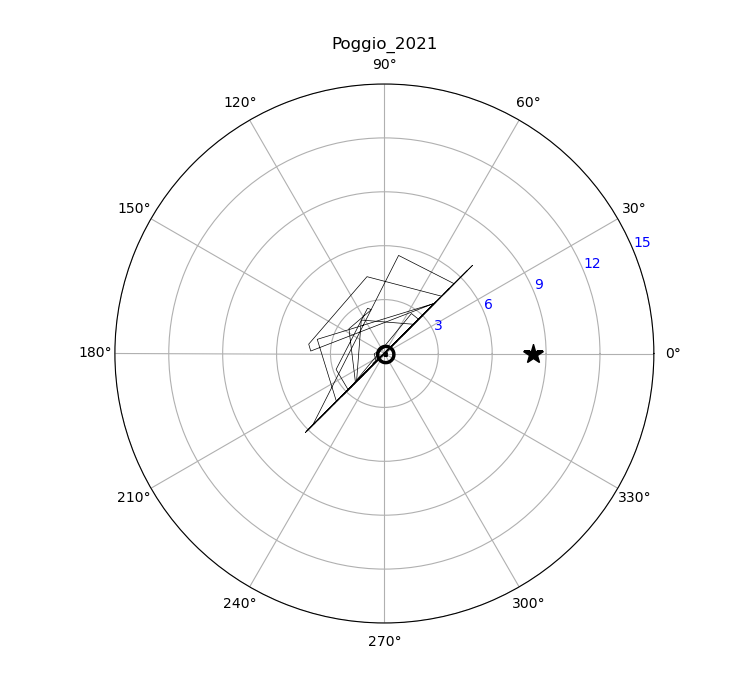
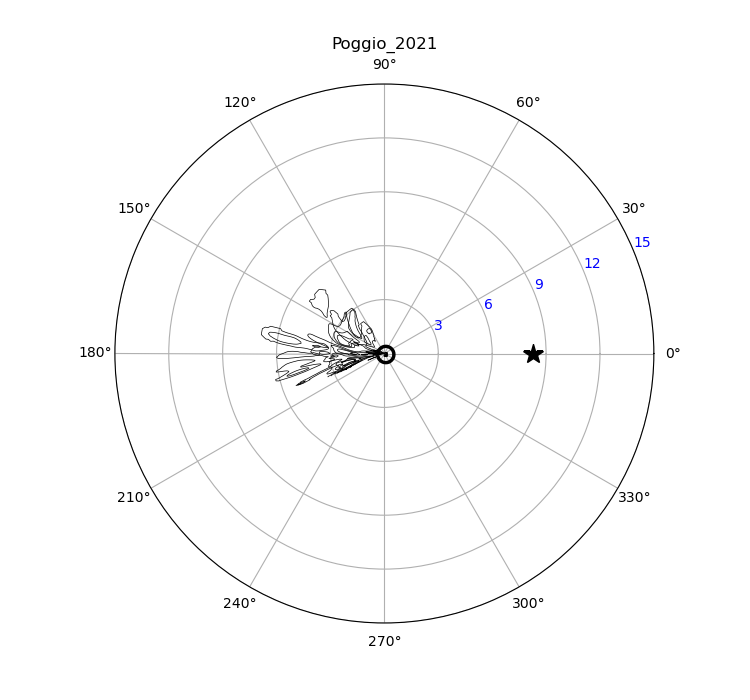
fixing polarproj poggio hc

Changed region(s): [[0.368, 0.42, 0.5827, 0.6], [0.5827, 0.39, 0.6133, 0.42], [0.4907, 0.39, 0.5213, 0.42]]

diff --git a/SpiralMap.py b/SpiralMap.py
@@ -72,24 +72,24 @@ class spiral_poggio(object):
 	
 	
 		self.dout = {'xhc':xvalues_overdens,'yhc':yvalues_overdens,'xgc':xvalues_overdens+xsun,'ygc':yvalues_overdens}
-		getangular(self)
+		# getangular(self)
 
 		#----overplot spiral arms in overdens----#
 		iniz_overdens= 0  
 		fin_overdens= 1.5 
 		N_levels_overdens= 2
-		levels_overdens= np.linspace(iniz_overdens,fin_overdens,N_levels_overdens)		
+		levels_overdens1= np.linspace(iniz_overdens,fin_overdens,N_levels_overdens)		
 		
 		if plotattrs['polarproj'] == False:			
 			cset1 = plt.contourf(self.dout['x'+plotattrs['coordsys'].lower()],self.dout['y'+plotattrs['coordsys'].lower()],over_dens_grid.T, 
-								levels=levels_overdens,alpha=0.05,cmap='Greys')	
+								levels=levels_overdens1,alpha=0.05,cmap='Greys')	
 							
 		iniz_overdens= 0. 
 		fin_overdens= 1.5 
 		N_levels_overdens= 4 
-		levels_overdens= np.linspace(iniz_overdens,fin_overdens,N_levels_overdens)
+		levels_overdens2= np.linspace(iniz_overdens,fin_overdens,N_levels_overdens)
 		if plotattrs['polarproj'] == False:				
-			cset1 = plt.contour(self.dout['x'+plotattrs['coordsys'].lower()],self.dout['y'+plotattrs['coordsys'].lower()],over_dens_grid.T,levels=levels_overdens,colors='black',linewidths=plotattrs['linewidth'])
+			cset1 = plt.contour(self.dout['x'+plotattrs['coordsys'].lower()],self.dout['y'+plotattrs['coordsys'].lower()],over_dens_grid.T,levels=levels_overdens2,colors='black',linewidths=plotattrs['linewidth'])
 
 			self.xmin,self.xmax =plt.gca().get_xlim()[0].copy(),plt.gca().get_xlim()[1].copy()				
 			self.ymin,self.ymax =plt.gca().get_ylim()[0].copy(),plt.gca().get_ylim()[1].copy()		
@@ -108,16 +108,18 @@ class spiral_poggio(object):
 			plt.plot(np.radians(180.),abs(xsun),marker=r'$\odot$',markersize=plotattrs['markersize'],color='black')		
 
 			cset1 = plt.contourf(np.radians(self.dout['phi4']),self.dout['rgc'],over_dens_grid, 
-								levels=levels_overdens,alpha=0.05,cmap='Greys')
-			cset1 = plt.contour(np.radians(self.dout['phi4']),self.dout['rgc'],over_dens_grid,'.',levels=levels_overdens,colors='black',linewidths=plotattrs['linewidth'])	
+								levels=levels_overdens1,alpha=0.05,cmap='Greys')
+			cset1 = plt.contour(np.radians(self.dout['phi4']),self.dout['rgc'],over_dens_grid,levels=levels_overdens2,colors='black',linewidths=plotattrs['linewidth'])	
 			
-		print(self.dout['dhelio'])
-		print(Rvalues_dens)
+		self.dout['glon4'] = np.degrees(np.arctan2(self.dout['yhc'],self.dout['xhc']))%360.	
+					
+		print(self.dout['glon4'])
+
 		if plotattrs['plot'] and plotattrs['polarproj'] and plotattrs['coordsys'].lower()=='hc':
 			plt.plot(np.radians(0.),abs(xsun),marker='*',markersize=plotattrs['markersize'],color='black')
 			plt.plot(0.,0.,marker=r'$\odot$',markersize=plotattrs['markersize'],color='black')															
-			# plt.contour(np.radians(self.dout['glon4']),self.dout['dhelio'],over_dens_grid,'.',levels=levels_overdens,colors='black',linewidths=plotattrs['linewidth'])	
-			plt.contour(np.radians(self.dout['glon4']),self.dout['dhelio'],over_dens_grid,'.',levels=levels_overdens,colors='black',linewidths=plotattrs['linewidth'])	
+			plt.contour(np.radians(self.dout['glon4']),Rvalues_dens,over_dens_grid,levels=levels_overdens1,alpha=0.05,cmap='Greys')	
+			plt.contour(np.radians(self.dout['glon4']),Rvalues_dens,over_dens_grid,levels=levels_overdens2,colors='black',linewidths=plotattrs['linewidth'])	
 
 							
 class TaylorCordesSpiral(object):	

diff --git a/test.py b/test.py
@@ -421,7 +421,7 @@ if checkpolar:
 	# plt.savefig(figdir_primer+'/polar_grid_overplotted1_gc.png')
 	plt.close('all')
 	fig, ax = plt.subplots(figsize=(7.5,7.),subplot_kw=dict(projection="polar"))
-	plotattrs = {'plot':True,'coordsys': 'HC','markersize':15,'polarproj':True}	
+	plotattrs = {'plot':True,'coordsys': 'hC','markersize':15,'polarproj':True}	
 	spirals.readout(plotattrs,model=use_model1,arm='all')	
 
 	ax.set_rticks([3., 6.,9.,12,15.])
